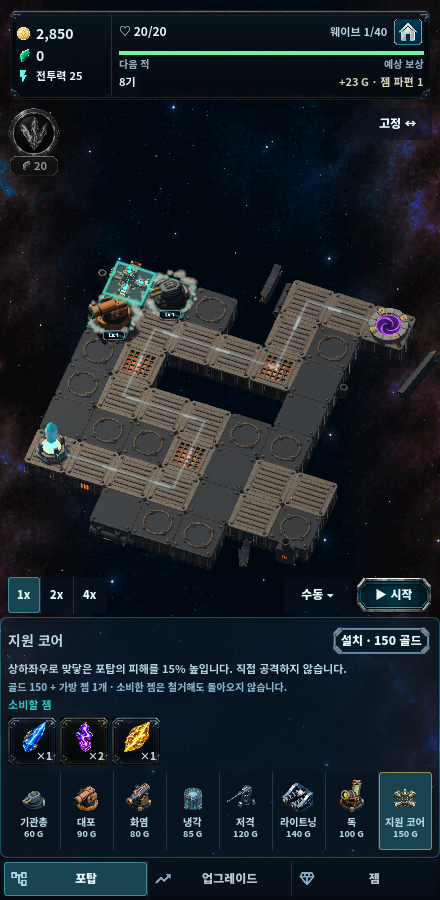
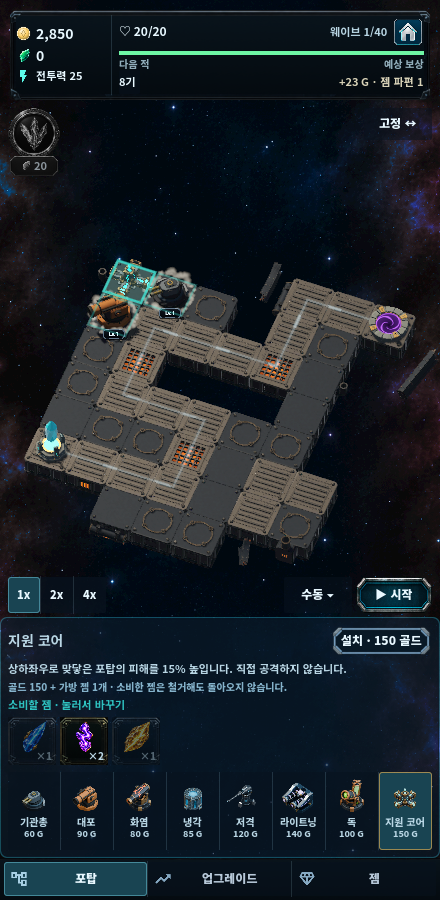
feat: 지원 코어 설치 젬 기본 선택과 바로 설치
- 빈 칸을 고르면 가방에서 가장 많이 겹친 젬(같으면 포탑에 덜 장착한 젬)을 소비 젬으로 미리 고른다
- 포탑처럼 설치 버튼이나 목록 재탭으로 바로 짓고, 젬 줄에서 바꿀 수 있다
- 설치 버튼은 포탑과 같은 문구를 쓰고, 소비할 젬만 밝게·나머지는 흐리게 표시한다
- 기본 젬 선택 회귀 검사 추가, 설계·UI 결정 문서와 건설 단계 캡처 갱신

Changed region(s): [[0.0591, 0.28, 0.9455, 0.6222], [0.0295, 0.7778, 0.3545, 0.84]]

diff --git a/docs/design_decisions/combat_ui.md b/docs/design_decisions/combat_ui.md
@@ -14,7 +14,7 @@
 | 스테이지 상세 모달 | 승인 시안 02의 짙은 청록 석재·상단 룬 문양·얇은 금색 외곽을 따른다. 제목과 상태는 중앙, 닫기는 우측 상단 독립 버튼에 배치한다. 통계는 개별 카드 없는 3열이며 [승인 04 금테두리 아이콘](../../design/combat_ui_concepts/2026-09-22/stage-stat-icons/04-gold-border.png)의 트로피·깃발·육각 룬을 사용한다. 보상은 이름과 의미를 보존한 가로 행, 시작은 넓은 청록 버튼으로 구성한다. 보상 아이콘은 기존 이미지를 우선 재사용한다. 저격·라이트닝은 기존 3D 렌더를 사용하고, 연구 슬롯 II도 기존 청록 플라스크 이미지를 사용한다([소형 아이콘 기준](../../design/combat_ui_concepts/2026-09-22/reward-icons-small/README.md)). 배경과 버튼은 `StyleBoxTexture`, 동적 콘텐츠는 표준 Container와 별도 노드로 유지한다. | [승인 시안 02](../../design/combat_ui_concepts/2026-09-22/stage-modal-proposals/01-four-concepts.png), [적용·검증](../../design/combat_ui_concepts/2026-09-22/stage-modal-proposals/README.md) |
 | 전투 종료 확인 | 승인 B안의 남청·청록 금속 외곽과 중앙 보상 위계를 따른다. 짧은 종료 설명 아래에 ‘예상 보상’, 공용 룬 아이콘과 실제 예상 룬 수치, 완료 웨이브 기준을 한 번씩 표시한다. 갈색 보상 카드·‘정산 예상’ 배지·문장 속 반복 보상 수치는 두지 않는다. 하단 ‘계속 진행’과 구리색 위험 행동 ‘전투 종료’를 같은 행에 배치하고 좁은 화면에서도 행동 접근성을 유지한다. 완료 웨이브와 보상은 현재 런의 기존 정산 계산을 사용하며 시안 예시 수치를 고정하지 않는다. 기존 종료·저장·보상 정산 계약을 보존한다. | [승인 B안](../../design/modal_improvement_concepts/2026-10-03/end-b-reward.png), [구현](../../godot/ui/hud_menu_panel.gd) |
 | 스테이지 결과창 | 승인 01 시안의 큰 중앙 성공·붕괴 크리스탈, 중앙 제목·부제, 남청 금속·청동 모서리의 각진 외곽을 따른다. 등장은 승인한 ‘크리스탈 결집’ 연출로 성공 크리스탈의 상승·반동 또는 붕괴 크리스탈의 낙하·반동, 양쪽 프레임 결합, 제목과 보상의 순차 등장으로 이어진다. 정산 갱신·화면 크기 변경에는 연출을 다시 시작하지 않는다. 보상은 실제 아이콘·종류·수량을 조건부 열로 표시하고, 전투 기록과 첫 클리어 해금은 각각 얇은 청록 프레임으로 구분한다. 하단에 다시 시작·스테이지 선택을 같은 행으로 배치한다. 짧은 화면은 내용 내부 스크롤과 행동 접근성을 유지한다. 영속 종료 저장·보상 큐 기록 직후 서버 정산을 요청하며 시안의 정산 대기 문구 대신 실제 요청 중·완료·통신 실패·오프라인·저장 실패를 구분한다. 실제 보상·기록·해금·서버 권위와 기존 두 행동을 보존한다. | [승인 01·구현 기준](../../design/stage_result_concepts/2026-10-02/README.md), [정산 계약](../server_authoritative_economy_design.md#65-로컬-플레이-보상) |
-| 지원 코어 건설·상세 | 건설 목록 맨 끝에 포탑과 같은 3D 렌더 아이콘·가격 칸으로 둔다. 다시 눌러도 바로 짓지 않고, 빈 건설 칸 상세에서 가방 젬 하나를 고른 뒤 설치 버튼으로 짓는다. 장착 젬은 목록에 없다. 설치한 코어 상세는 계열·효과·연결된 포탑 수·소비한 젬·철거(확인 창)를 보여 준다. 강화받는 포탑의 분류 태그 줄에 청록 "연결 피해 +15%" 태그를 둔다. 화면 문구는 "연결"이며 "링크"는 쓰지 않는다. | [지원 코어 설계](../support_core_design.md), [실제 화면](../../design/support_core_concepts/game/README.md#실제-화면) |
+| 지원 코어 건설·상세 | 건설 목록 맨 끝에 포탑과 같은 3D 렌더 아이콘·가격 칸으로 둔다. 빈 건설 칸을 고르면 소비할 가방 젬이 미리 골라져 있어(가장 많이 겹친 젬, 같으면 포탑에 덜 장착한 젬), 포탑처럼 설치 버튼이나 목록을 한 번 더 눌러 바로 짓는다. 설치 버튼은 포탑과 같은 "설치 · 150 골드"이고, 소비할 젬은 아래 젬 줄에서 강조 테두리와 함께 밝게, 나머지는 흐리게 보이며 눌러서 바꾼다. 버튼에 젬 이름을 늘어놓지 않는다(사용자 지적). 장착 젬은 목록에 없다. 사용자 결정(2026-10-25): 매번 젬을 고르는 단계가 번거로워 젬 파편 대신 기본 선택을 택했다. 설치한 코어 상세는 계열·효과·연결된 포탑 수·소비한 젬·철거(확인 창)를 보여 준다. 강화받는 포탑의 분류 태그 줄에 청록 "연결 피해 +15%" 태그를 둔다. 화면 문구는 "연결"이며 "링크"는 쓰지 않는다. | [지원 코어 설계](../support_core_design.md), [실제 화면](../../design/support_core_concepts/game/README.md#실제-화면) |
 
 ## 선택 포탑 패널
 

diff --git a/docs/support_core_design.md b/docs/support_core_design.md
@@ -30,7 +30,7 @@
 | 철거 | 골드 비용의 75% 환불(포탑 환불과 같은 비율). 소비한 젬은 돌려주지 않는다. |
 
 - 소비한 젬의 종류는 효과에 영향을 주지 않는다. 젬은 비용이다.
-- 건설할 때 가방 젬 목록을 띄우고, 소비할 젬을 플레이어가 직접 고른다. 자동으로 고르지 않는다. 포탑에 장착된 젬은 목록에 나오지 않는다.
+- 소비할 젬은 가방 젬 중 가장 많이 겹친 젬을 미리 고르고(같으면 포탑에 덜 장착한 젬), 플레이어가 목록에서 바꿀 수 있다. 사용자 결정(2026-10-25): 설치마다 젬을 고르는 단계가 번거로워, 쓸모없는 젬의 소비처라는 목적은 지키면서 포탑처럼 바로 짓게 했다. 젬 파편으로 바꾸는 안은 젬 구매와 파편이 경쟁해 택하지 않았다. 포탑에 장착된 젬은 목록에 나오지 않는다.
 
 ### 효과
 
@@ -65,7 +65,7 @@
 - 피해: 포탑의 스탯 입력을 만들 때 맞닿은 코어의 계열별 최댓값을 모듈 `damageIncreaseRate`에 더한다. 전투 실행기는 바꾸지 않았다([데미지 계층 규칙](damage_calculation_rules.md#지원-코어)).
 - 젬 소비와 서버: 서버 명령·DB migration을 추가하지 않았다. 덱 도전(세대 10 이상)은 저장마다 젬 소유를 검사하지 않고, 종료 때 `gemDeckLog`를 덱에 재생해 보유 젬을 대조한다. 그래서 코어 건설 때 `gemDeckLog`에 `{"kind":"consume","choice":젬}`을 남기고, 서버 재생은 이미 받은 젬에서 그만큼 뺀다([런 젬 덱](server_authoritative_economy_design.md#런-젬-덱-호환-세대-10)). 덱 없이 서버 젬 명령을 쓰는 도전은 저장마다 소유 합계를 검사하므로 코어를 지을 수 없다("이 도전에서는 지을 수 없습니다"). 게스트 런은 젬을 로컬에서만 소비한다.
 - 호환 세대 14: 이전 앱은 `supportCores`와 `consume` 기록을 버리므로, 둘 중 하나가 있는 저장은 세대 14 미만 요청을 `CLIENT_UPDATE_REQUIRED`로 거절한다.
-- 화면: 건설 목록 끝에 지원 코어(150 G)가 있다. 빈 건설 칸에서 고르면 효과·비용 안내와 "소비할 젬" 목록(가방 젬만, 개수 표시)이 나오고, 젬을 고른 뒤 "설치 · 150 골드"로 짓는다. 다시 눌러도 바로 짓지 않는다. 설치한 코어를 고르면 계열, "맞닿은 포탑 피해 +15%", "연결된 포탑 N기", 소비한 젬, "철거 · +112 G"와 확인 창(소비한 젬은 돌아오지 않음)이 나온다. 강화받는 포탑 상세의 분류 줄에 "연결 피해 +15%"를 표시한다.
+- 화면: 건설 목록 끝에 지원 코어(150 G)가 있다. 빈 건설 칸에서 고르면 효과·비용 안내와 "소비할 젬" 목록(가방 젬만, 개수 표시)이 나온다. 가장 많이 겹친 젬(같으면 포탑에 덜 장착한 젬)이 미리 골라져 있어, "설치 · 150 골드" 버튼이나 목록을 한 번 더 눌러 포탑처럼 바로 짓는다. 소비할 젬은 젬 줄에서 밝게(나머지는 흐리게) 보이고, 다른 젬을 눌러 바꾼다. 설치한 코어를 고르면 계열, "맞닿은 포탑 피해 +15%", "연결된 포탑 N기", 소비한 젬, "철거 · +112 G"와 확인 창(소비한 젬은 돌아오지 않음)이 나온다. 강화받는 포탑 상세의 분류 줄에 "연결 피해 +15%"를 표시한다.
 - 검증: `godot/verify_support_core.gd`(해금·건설·소비·인접/대각선·중첩·환급·저장 복원), 서버 `support_core_compatibility_test.go`·`gem_deck_test.go`. 실제 화면은 [게임 모델 기록](../design/support_core_concepts/game/README.md#실제-화면)에 있다. Android 실기기는 확인하지 않았다.
 
 ## 미정

diff --git a/design/support_core_concepts/game/README.md b/design/support_core_concepts/game/README.md
@@ -20,7 +20,7 @@
 
 | 캡처 | 내용 |
 | --- | --- |
-| [건설 단계](review/1-build-gem-choice.png) | 지원 코어 선택, 미리보기 모델, 상하좌우 건설 칸 윤곽, 소비할 젬 선택 |
+| [건설 단계](review/1-build-gem-choice.png) | 지원 코어 선택, 미리보기 모델, 상하좌우 건설 칸 윤곽, 미리 골라진 소비 젬(가장 많은 연쇄만 밝고 나머지는 흐림)과 "설치 · 150 골드". 캡처는 목록을 한 번 더 눌러 짓는다. |
 | [코어 상세](review/2-core-detail.png) | 피해 증가, 연결된 포탑 2기, 소비한 젬, 철거 +112 G. 연결된 동·남쪽 팔만 빛나고 북·서쪽 팔은 꺼져 있다. |
 | [강화받는 포탑](review/3-turret-detail.png) | 분류 줄의 "연결 피해 +15%" |
 | [드론 시점](review/4-field-drone.png), [확대](review/4-field-drone-zoom3x.png) | 기본 배율의 연결 빛줄기와 받침 고리 |
